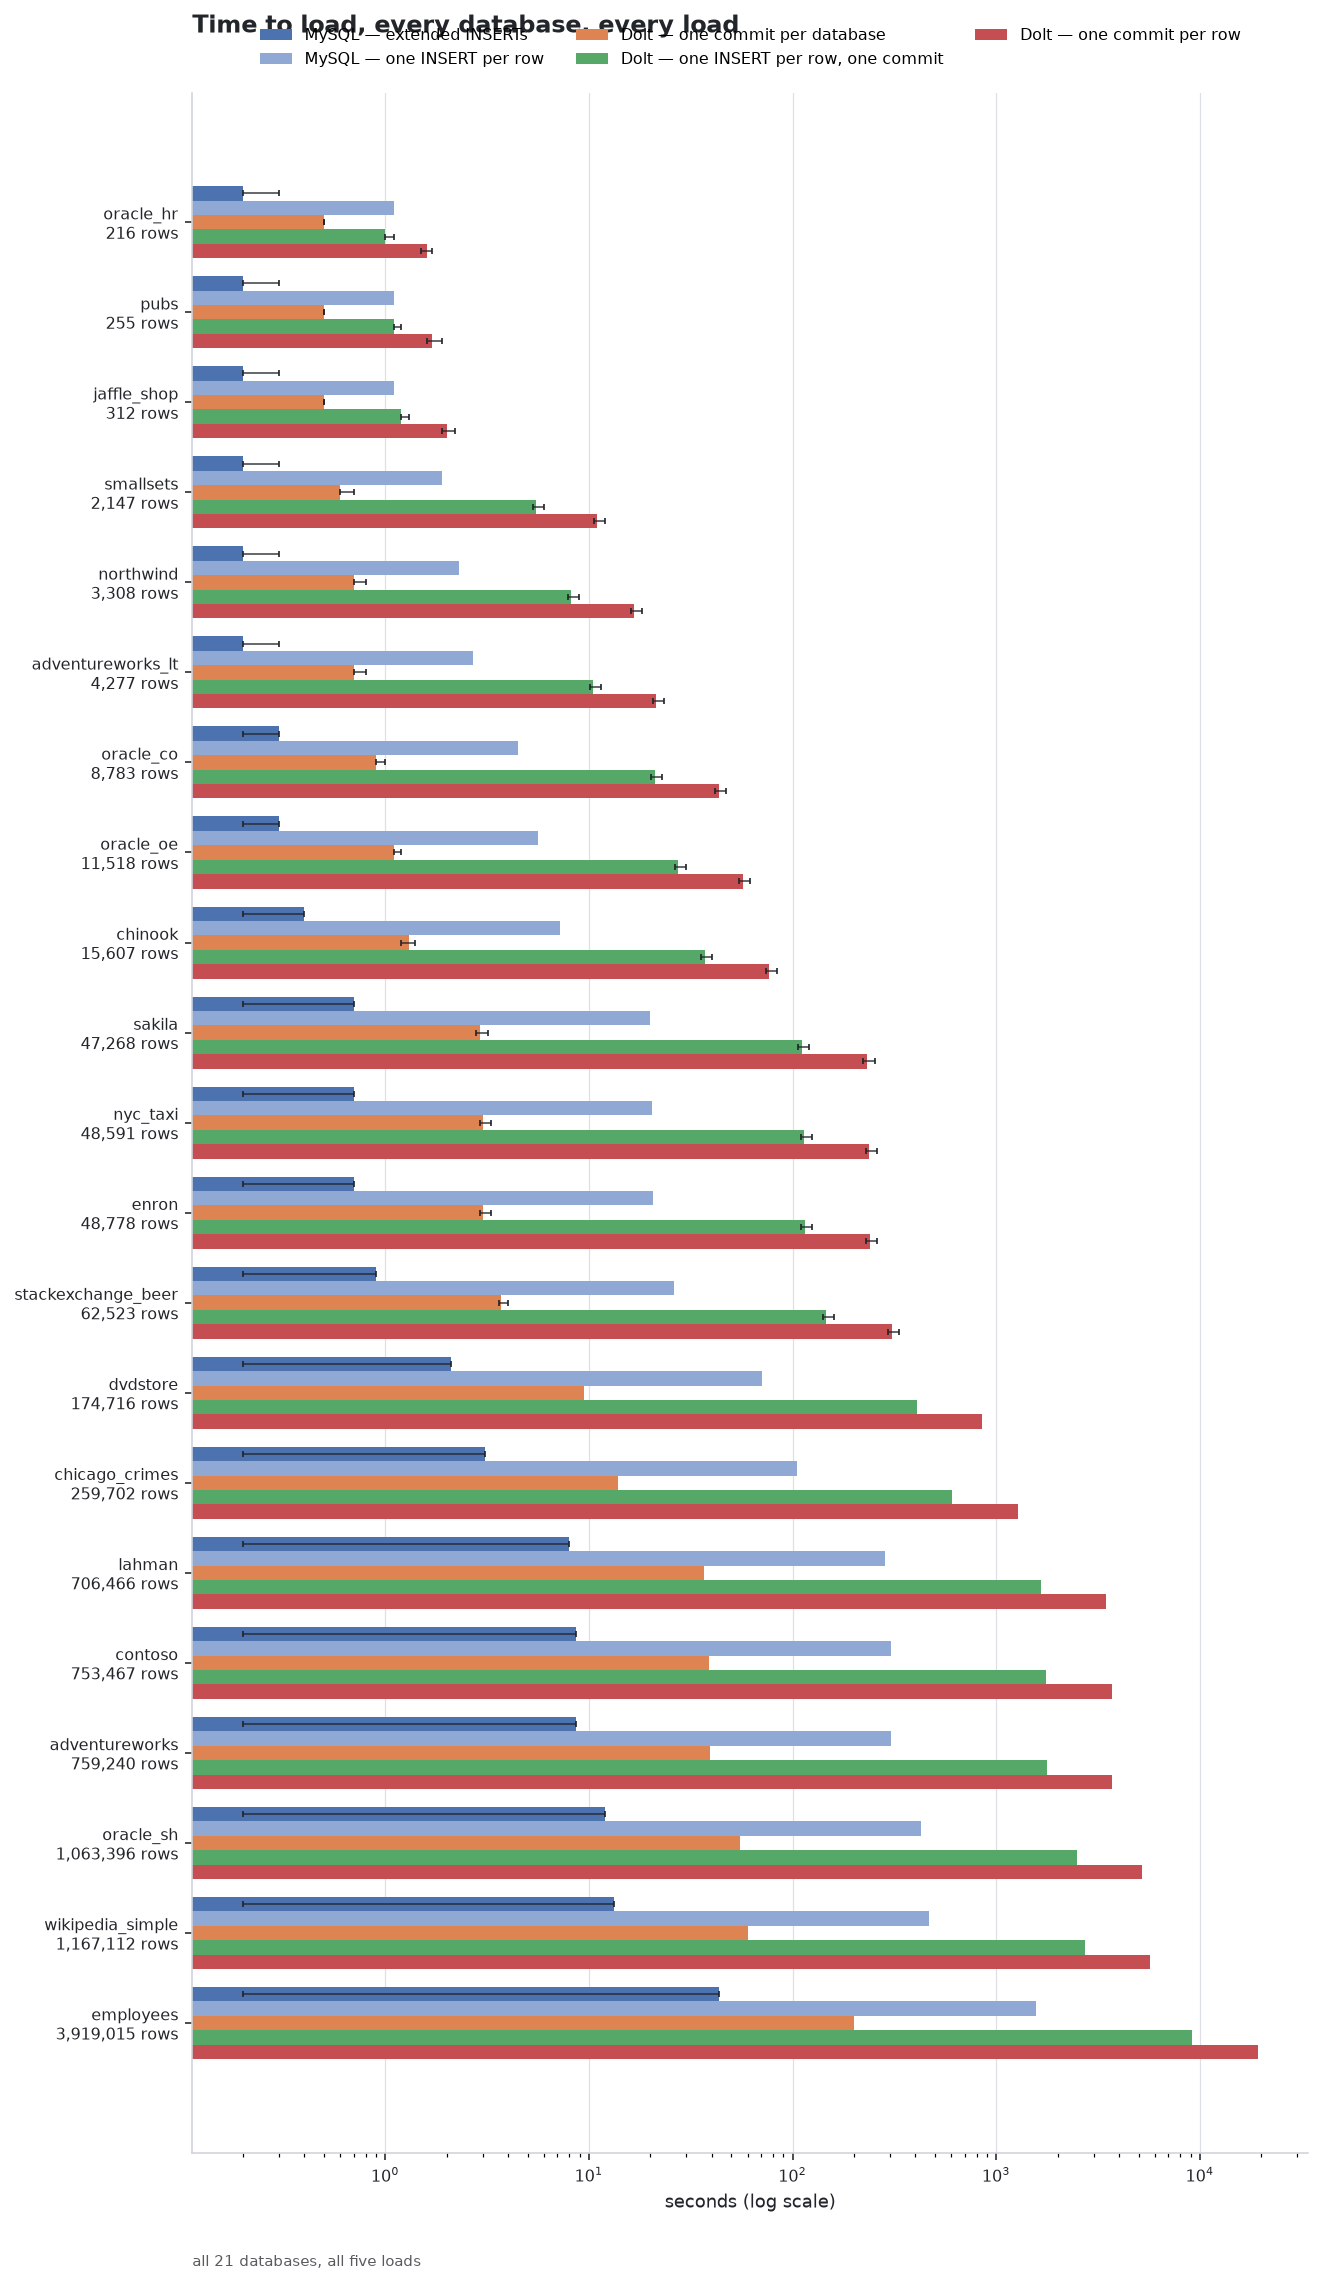
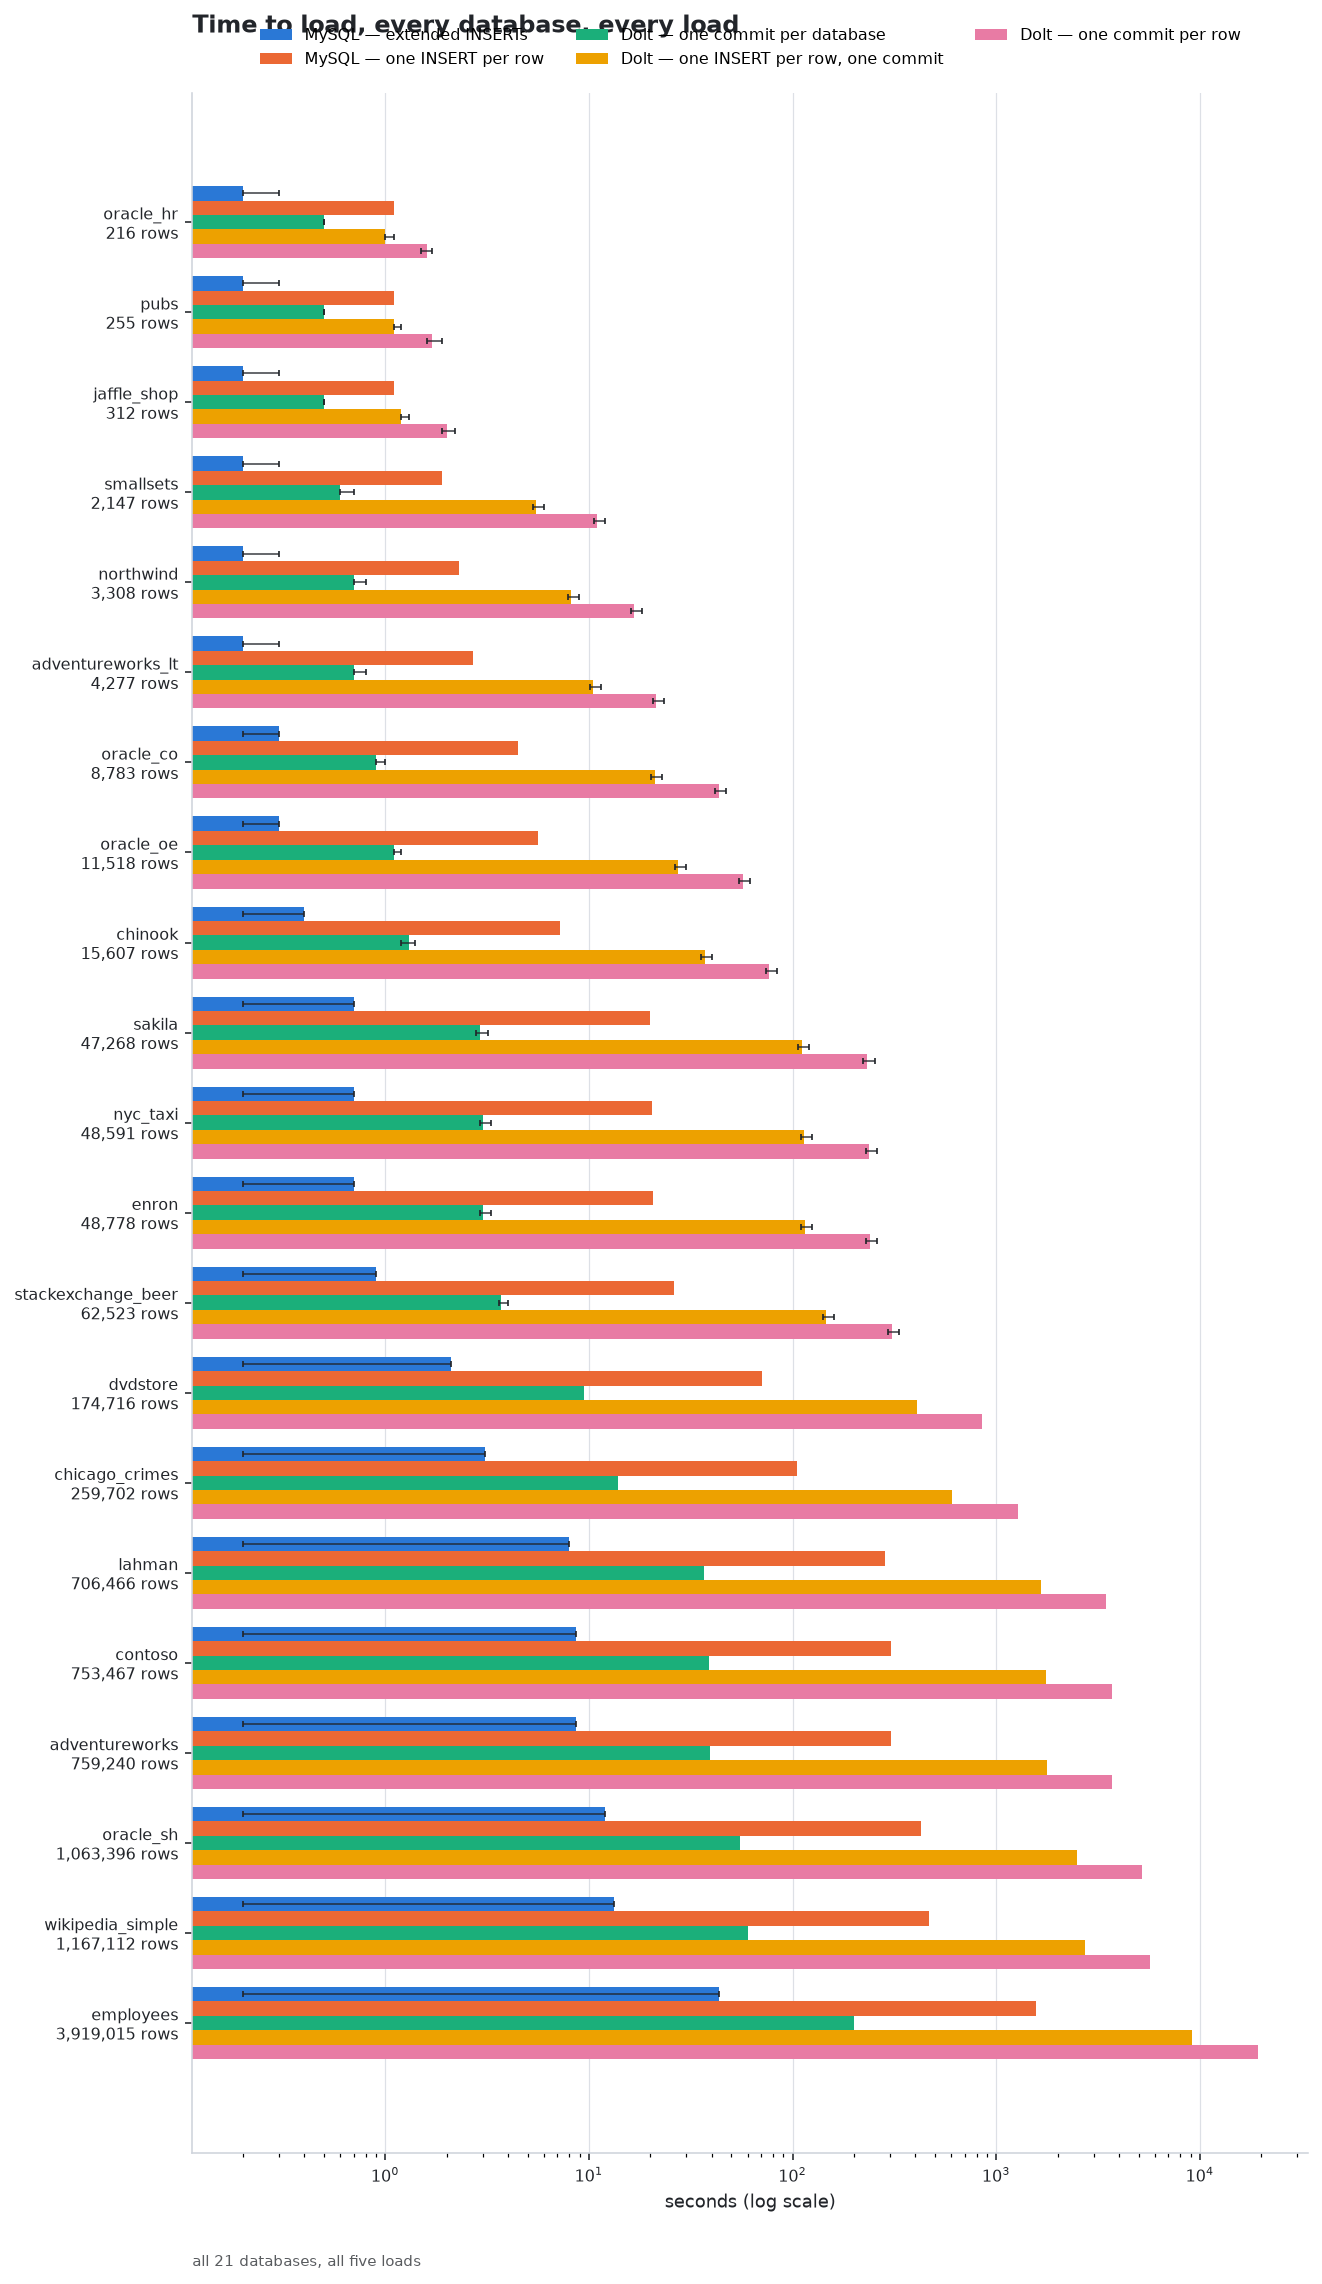
Draw the index-policy comparison, and check the palette instead of trusting it
A fifth figure, index-policy.png: what maintaining the indexes during a
row-by-row load costs, over all 21 databases and all three row-by-row loads, on
both axes. The question is a polarity -- more or less -- so it is a diverging bar
against a zero line with a neutral midpoint, not paired bars on a log axis where
a 47% difference looked like nothing at all.

The existing five-series palette failed a colour-vision check outright: its green
and its orange, which are Dolt's one-commit-per-database and one-INSERT-per-row
loads and are drawn as adjacent bars, came out 4.5 apart under protanopia against
a floor of 8. A red-green colourblind reader could not tell apart the two bars
those figures exist to compare. Replaced with hues that pass every check; the
three that fall under 3:1 against white are relieved by the report carrying every
number as a table.

Bars now carry a whisker over every repeat where a load was cheap enough to
repeat, and no whisker where it was measured once -- an unrepeated number should
not be drawn as one that repeated well.

charts.py takes an optional path to a results file, which is how the new figure
was checked against full coverage without waiting for the run. Doing that caught
a 50-inch-wide PNG: a panel whose values are all zero autoscales to a range of
hundredths, and a bar label offset by 1.5 *data* units then sits thirty
axis-widths off the plot, where `bbox_inches="tight"` faithfully grew the canvas
[…]

Changed region(s): [[0.1241, 0.0622, 0.9614, 0.9015], [0.4342, 0.0, 0.4652, 0.0311], [0.1861, 0.0, 0.2171, 0.0311]]

diff --git a/scripts/charts.py b/scripts/charts.py
@@ -241,59 +241,86 @@ def fig_cost_by_mode(results):
 
 
 def fig_index_policy(results):
-    """Deferred against inline, over every database, for the three row-by-row loads.
+    """What keeping the indexes during the load costs, as a change from dropping them.
 
-    One variable changes between the two bars of a pair: whether the secondary indexes and foreign
-    keys were dropped for the load and rebuilt at the end, or maintained on every row. The one-shot
-    loads are absent because the policy does not apply to them -- mysqldump's extended INSERTs build
-    an index over batches either way, and both policies produced byte-identical files."""
+    The question is a polarity -- more or less -- so the form is a diverging bar against a zero
+    line, and the colour is a diverging pair with a neutral midpoint rather than two arbitrary
+    hues. Absolute sizes and times for both policies are in the report's tables; drawing them
+    here as paired bars on a log axis made a 47% difference look like nothing at all, which is
+    the opposite of what the figure is for.
+
+    The one-shot loads are absent because the policy does not apply to them: mysqldump's extended
+    INSERTs build an index over batches either way, and the two policies produced byte-identical
+    files."""
     dbs = sorted(results, key=lambda d: -(results[d].get("rows_mysql") or 0))
-    have = [(t, ax_) for ax_ in ("bytes", "seconds") for t in POLICY_TESTS
-            if any(value(results[d], t, ax_, "inline") for d in dbs)]
-    if not have:
+    if not any(value(results[d], t, "bytes", "inline") for d in dbs for t in POLICY_TESTS):
         print("  ! index-policy skipped: no load has been measured with indexes left inline")
         return
 
-    fig, axes = plt.subplots(2, 3, figsize=(15, 0.42 * len(dbs) + 3.4), sharey=True)
+    fig, axes = plt.subplots(2, 3, figsize=(14, 0.34 * len(dbs) + 3.2), sharey=True)
     for col, t in enumerate(POLICY_TESTS):
-        for row, (axis, scale, unit) in enumerate((("bytes", MB, "megabytes"),
-                                                   ("seconds", 1, "seconds"))):
+        for row, (axis, unit) in enumerate((("bytes", "disk"), ("seconds", "time"))):
             ax = axes[row][col]
-            h = 0.34
-            for k, policy in enumerate(("deferred", "inline")):
-                vals, ys, errs = [], [], []
-                for i, d in enumerate(dbs):
-                    v = value(results[d], t, axis, policy)
-                    if v:
-                        vals.append(v / scale)
-                        ys.append(i + (0.5 - k) * h)
-                        errs.append(whisker(results[d], t, axis, policy, scale, v / scale))
-                if vals:
-                    ax.barh(ys, vals, h, color=POLICY_COLOURS[policy],
-                            label="indexes dropped for the load" if policy == "deferred"
-                            else "indexes maintained throughout")
-                    for yy, vv, e in zip(ys, vals, errs):
-                        if e:
-                            ax.errorbar(vv, yy, xerr=e, fmt="none", ecolor=INK, elinewidth=.8,
-                                        capsize=1.6, alpha=.85)
-            ax.set_xscale("log")
-            style(ax, LABELS[t] if row == 0 else "", f"{unit} (log scale)", pad=8)
+            vals, ys, cols = [], [], []
+            for i, d in enumerate(dbs):
+                a = value(results[d], t, axis, "deferred")
+                b = value(results[d], t, axis, "inline")
+                if a and b:
+                    pct = 100.0 * (b - a) / a
+                    vals.append(pct)
+                    ys.append(len(dbs) - 1 - i)
+                    cols.append(POLICY_MORE if pct > 0.5 else
+                                POLICY_LESS if pct < -0.5 else POLICY_NONE)
+            if vals:
+                ax.barh(ys, vals, 0.66, color=cols)
+                # Label only the extremes, so the eye goes to the result rather than to 126 numbers,
+                # and offset them in points rather than in data units. A panel where every value is
+                # zero -- which is exactly what Dolt's one-INSERT-per-row disk does -- autoscales to
+                # a range of hundredths, and a label offset by 1.5 *data* units then sits thirty
+                # axis-widths off the plot. `bbox_inches="tight"` duly grew the canvas to include
+                # it, turning a 14-inch figure into a 50-inch one.
+                for yy, vv in sorted(zip(ys, vals), key=lambda z: -abs(z[1]))[:2]:
+                    if abs(vv) >= 1:
+                        ax.annotate(f"{vv:+.0f}%", (vv, yy), textcoords="offset points",
+                                    xytext=(4 if vv >= 0 else -4, 0), va="center",
+                                    ha="left" if vv >= 0 else "right",
+                                    fontsize=7.5, color=INK, fontweight="bold")
+                # a panel with nothing to show should look like nothing, not like noise magnified
+                if max(abs(v) for v in vals) < 1:
+                    ax.set_xlim(-1, 1)
+            ax.axvline(0, color=INK, linewidth=1.1)
+            ax.set_xlabel(f"% change in {unit} when the indexes are kept", color=INK, fontsize=8.5)
+            ax.set_title(LABELS[t] if row == 0 else "", color=INK, fontsize=11,
+                         pad=10, loc="left", fontweight="bold")
+            ax.tick_params(colors=INK, labelsize=7)
+            for side in ("top", "right", "left"):
+                ax.spines[side].set_visible(False)
+            ax.spines["bottom"].set_color(GRID)
+            ax.grid(axis="x", color=GRID, linewidth=.6, alpha=.7)
+            ax.set_axisbelow(True)
             if col == 0:
                 ax.set_yticks(range(len(dbs)),
-                              [f"{d}\n{results[d].get('rows_mysql', 0):,} rows" for d in dbs],
+                              [f"{d}  {results[d].get('rows_mysql', 0):,}" for d in dbs][::-1],
                               fontsize=6.5)
+
     n = len(dbs)
-    covered = {t: sum(1 for d in dbs if value(results[d], t, "bytes", "inline")) for t in POLICY_TESTS}
-    gaps = ", ".join(f"{SHORT[t].replace(chr(10), ' ')}: {c}/{n}"
-                     for t, c in covered.items() if c < n)
-    axes[0][0].legend(fontsize=8, frameon=False, ncol=2, loc="lower left",
-                      bbox_to_anchor=(0.0, 1.12))
-    fig.suptitle("Does dropping the indexes for the load change anything? "
-                 f"{n} databases, disk above, time below",
-                 fontsize=12, fontweight="bold", color=INK, x=.02, ha="left", y=1.005)
-    if gaps:
-        fig.text(.02, -0.012, f"a gap means that pair has no inline result yet — {gaps}",
-                 fontsize=7.5, color=INK, alpha=.75)
+    covered = {t: sum(1 for d in dbs if value(results[d], t, "bytes", "inline")
+                      and value(results[d], t, "bytes", "deferred")) for t in POLICY_TESTS}
+    gaps = ", ".join(f"{LABELS[t]}: {c}/{n}" for t, c in covered.items() if c < n)
+    handles = [plt.Rectangle((0, 0), 1, 1, color=c) for c in
+               (POLICY_MORE, POLICY_LESS, POLICY_NONE)]
+    axes[0][0].legend(handles,
+                      ["keeping them costs more", "keeping them costs less", "no difference"],
+                      fontsize=8, frameon=False, ncol=3, loc="lower left",
+                      bbox_to_anchor=(0.0, 1.16))
+    fig.suptitle("What maintaining the indexes during a row-by-row load costs — "
+                 f"all {n} databases, against dropping them and rebuilding at the end",
+                 fontsize=12, fontweight="bold", color=INK, x=.02, ha="left", y=1.0)
+    fig.text(.02, -0.014,
+             (f"a missing bar means that pair has no result yet — {gaps}" if gaps
+              else f"every database has both policies for all {len(POLICY_TESTS)} loads")
+             + ".  Absolute sizes and times for both policies are tabulated in REPORT.md.",
+             fontsize=7.5, color=INK, alpha=.75)
     fig.tight_layout()
     save(fig, "index-policy.png")
 
